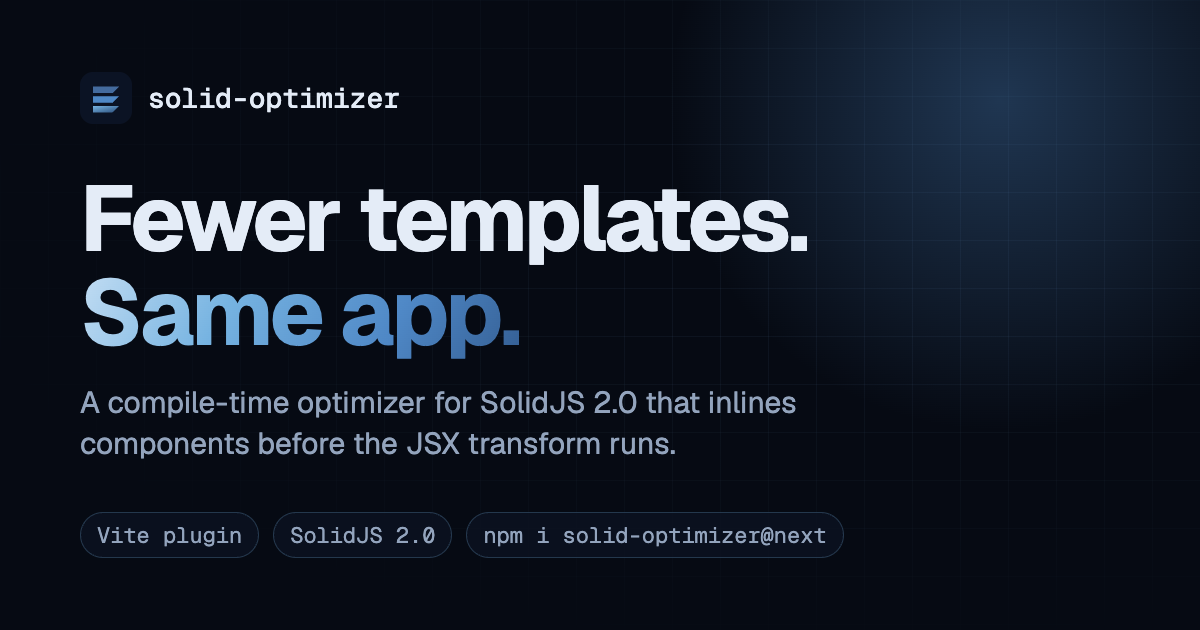
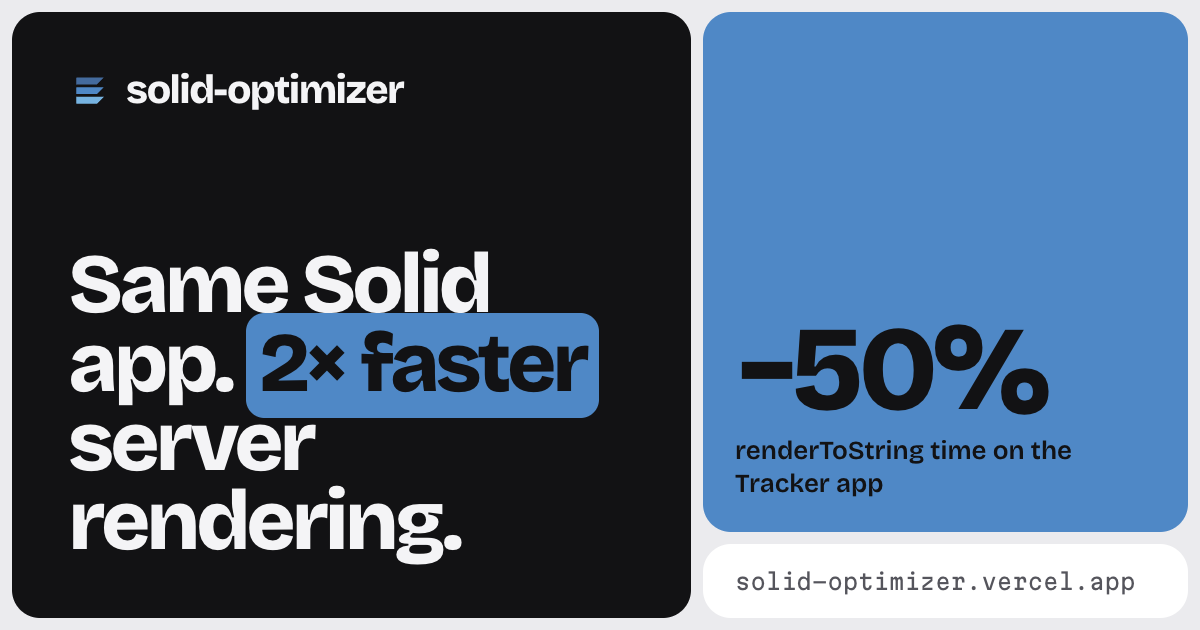
feat(website): redraw the link preview image in Banig
The image showed the old headline on the old look. It is now Banig's
OgImage: an ink tile with the name and the hero's claim, an accent tile
with the measured renderToString change on the Tracker app, and the
address, in the site's fonts and light theme. The image's alt text
follows the new claim.

diff --git a/website/scripts/og.html b/website/scripts/og.html
@@ -1,137 +1,80 @@
 <!doctype html>
-<html lang="en">
+<!--
+  Banig's OgImage, rendered to public/og.png by scripts/og.ts: an ink tile with
+  the name and the hero's claim, an accent tile with the measured number, and
+  the address. It uses the site's tokens and fonts, in the light theme.
+-->
+<html lang="en" data-theme="light">
   <head>
     <meta charset="utf-8" />
-    <!-- The share image. `node scripts/og.ts` renders it to public/og.png at 1200 by 630. -->
+    <link rel="stylesheet" href="../src/styles/tokens.css" />
+    <link rel="stylesheet" href="../src/styles/banig.css" />
     <style>
+      /* banig.css loads the fonts from the site's root, which a file has not. */
       @font-face {
-        font-family: 'Geist';
-        src: url('../node_modules/@fontsource-variable/geist/files/geist-latin-wght-normal.woff2')
-          format('woff2');
-        font-weight: 100 900;
+        font-family: 'Bricolage Grotesque';
+        font-weight: 200 800;
+        src: url('../public/fonts/bricolage-grotesque.woff2') format('woff2');
       }
       @font-face {
-        font-family: 'Geist Mono';
-        src: url('../node_modules/@fontsource-variable/geist-mono/files/geist-mono-latin-wght-normal.woff2')
-          format('woff2');
-        font-weight: 100 900;
+        font-family: 'Martian Mono';
+        font-weight: 100 800;
+        src: url('../public/fonts/martian-mono.woff2') format('woff2');
       }
-      * {
-        box-sizing: border-box;
+      body {
         margin: 0;
       }
-      html,
-      body {
-        width: 1200px;
-        height: 630px;
-        overflow: hidden;
-      }
-      body {
-        position: relative;
-        padding: 72px 80px;
-        background: #060a13;
-        color: #e4ecf7;
-        font-family: 'Geist', sans-serif;
-        display: flex;
-        flex-direction: column;
-        justify-content: space-between;
-      }
-      .grid {
-        position: absolute;
-        inset: 0;
-        background-image:
-          linear-gradient(rgb(118 179 225 / 0.06) 1px, transparent 1px),
-          linear-gradient(90deg, rgb(118 179 225 / 0.06) 1px, transparent 1px);
-        background-size: 48px 48px;
-        mask-image: radial-gradient(ellipse at 70% 40%, black 20%, transparent 75%);
-      }
-      .glow {
-        position: absolute;
-        width: 720px;
-        height: 720px;
-        right: -160px;
-        top: -260px;
-        background: radial-gradient(circle, rgb(79 136 198 / 0.35), transparent 65%);
-      }
-      .brand,
-      main,
-      footer {
-        position: relative;
-      }
-      .brand {
-        display: flex;
+      .og-name {
+        display: inline-flex;
         align-items: center;
-        gap: 16px;
-        font-family: 'Geist Mono', monospace;
-        font-size: 28px;
-        font-weight: 500;
-      }
-      .brand svg {
-        width: 52px;
-        height: 52px;
-      }
-      h1 {
-        font-size: 92px;
-        font-weight: 700;
-        line-height: 1.02;
-        letter-spacing: -0.035em;
-      }
-      .gradient {
-        background: linear-gradient(120deg, #c8e0f4 0%, #76b3e1 35%, #4f88c6 70%, #335d92 100%);
-        background-clip: text;
-        color: transparent;
-      }
-      p {
-        margin-top: 24px;
-        max-width: 760px;
-        font-size: 30px;
-        line-height: 1.35;
-        color: #93a4bd;
-      }
-      footer {
-        display: flex;
         gap: 14px;
-        font-family: 'Geist Mono', monospace;
-        font-size: 22px;
-        color: #93a4bd;
       }
-      footer span {
-        padding: 8px 16px;
-        border: 1px solid rgb(118 179 225 / 0.24);
-        border-radius: 999px;
-        background: rgb(11 18 32 / 0.8);
+      .og-name svg {
+        width: 44px;
+        height: 44px;
+      }
+      .og-number {
+        display: grid;
+        gap: 12px;
+      }
+      .og-number strong {
+        font: 800 120px/0.9 var(--font-sans);
+        letter-spacing: -0.05em;
+      }
+      .og-number span {
+        font-size: 26px;
+        font-weight: 600;
+        line-height: 1.25;
+      }
+      .og-address {
+        padding: 24px 32px;
+      }
+      .og-address span {
+        color: var(--muted);
+        font: 400 22px var(--font-mono);
       }
     </style>
   </head>
   <body>
-    <div class="grid"></div>
-    <div class="glow"></div>
-    <div class="brand">
-      <svg viewBox="0 0 32 32" aria-hidden="true">
-        <defs>
-          <linearGradient id="g" x1="0" y1="0" x2="1" y2="1">
-            <stop offset="0" stop-color="#76b3e1" />
-            <stop offset="1" stop-color="#2c4f7c" />
-          </linearGradient>
-        </defs>
-        <rect width="32" height="32" rx="8" fill="#0b1324" />
-        <path d="M8 9h16l-4 4H8z" fill="#446b9e" />
-        <path d="M8 15h16l-4 4H8z" fill="#4f88c6" />
-        <path d="M8 21h16l-4 4H8z" fill="url(#g)" />
-      </svg>
-      solid-optimizer
+    <div class="og">
+      <div class="og-main">
+        <span class="og-name">
+          <svg viewBox="0 0 32 32" aria-hidden="true">
+            <path d="M6 7h20l-5 5H6z" fill="#446b9e" />
+            <path d="M6 14h20l-5 5H6z" fill="#4f88c6" />
+            <path d="M6 21h20l-5 5H6z" fill="#76b3e1" />
+          </svg>
+          solid-optimizer
+        </span>
+        <h1 class="og-title">Same Solid app. <em>2× faster</em> server rendering.</h1>
+      </div>
+      <div class="og-side">
+        <div class="tile og-number" data-tone="accent">
+          <strong>−50%</strong>
+          <span>renderToString time on the Tracker app</span>
+        </div>
+        <div class="tile og-address"><span>solid-optimizer.vercel.app</span></div>
+      </div>
     </div>
-    <main>
-      <h1>Fewer templates.<br /><span class="gradient">Same app.</span></h1>
-      <p>
-        A compile-time optimizer for SolidJS 2.0 that inlines components before the JSX transform
-        runs.
-      </p>
-    </main>
-    <footer>
-      <span>Vite plugin</span>
-      <span>SolidJS 2.0</span>
-      <span>npm i solid-optimizer</span>
-    </footer>
   </body>
 </html>

diff --git a/website/src/Document.tsx b/website/src/Document.tsx
@@ -41,7 +41,10 @@ export function Document(props: { route: Route; children: JSX.Element }): JSX.El
         <meta property="og:image" content={image} />
         <meta property="og:image:width" content="1200" />
         <meta property="og:image:height" content="630" />
-        <meta property="og:image:alt" content="solid-optimizer: Fewer templates. Same app." />
+        <meta
+          property="og:image:alt"
+          content="solid-optimizer: Same Solid app. 2× faster server rendering."
+        />
         <meta name="twitter:card" content="summary_large_image" />
         <HydrationScript />
         {/* The server rewrites this path to the built entry. */}
